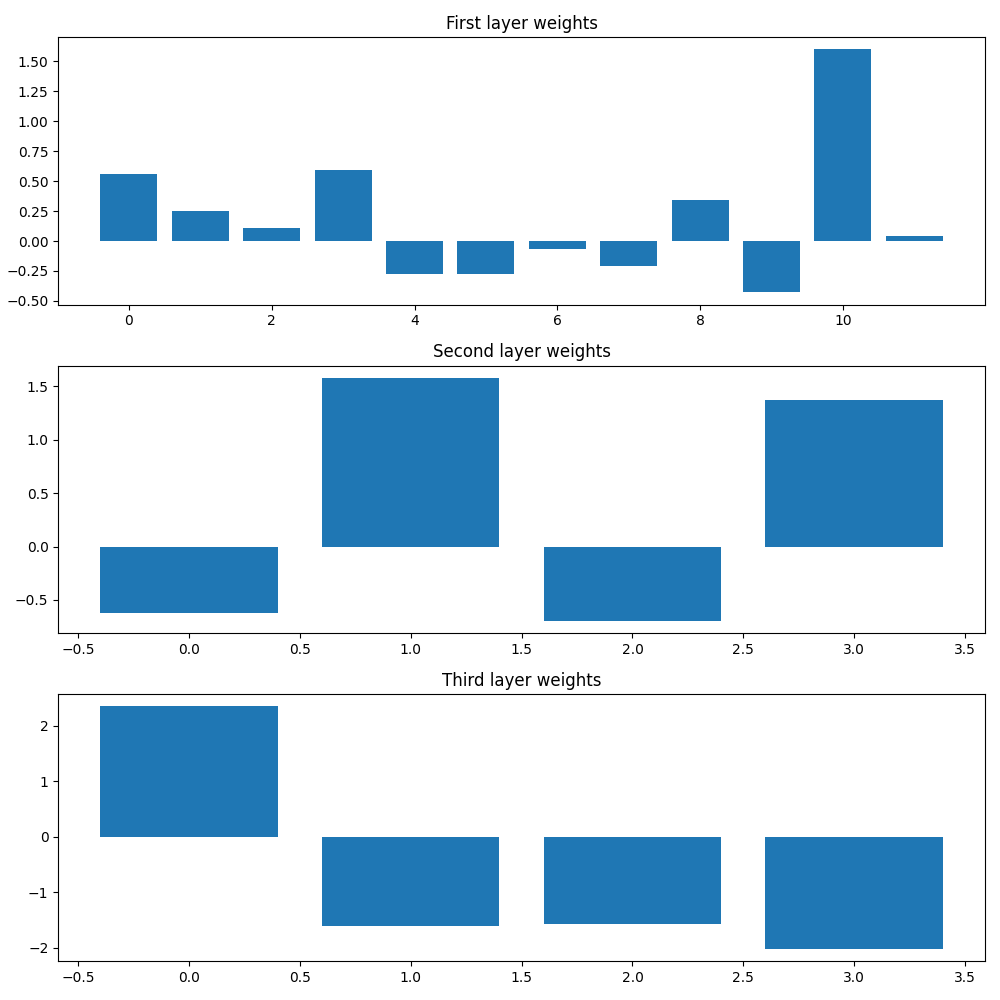
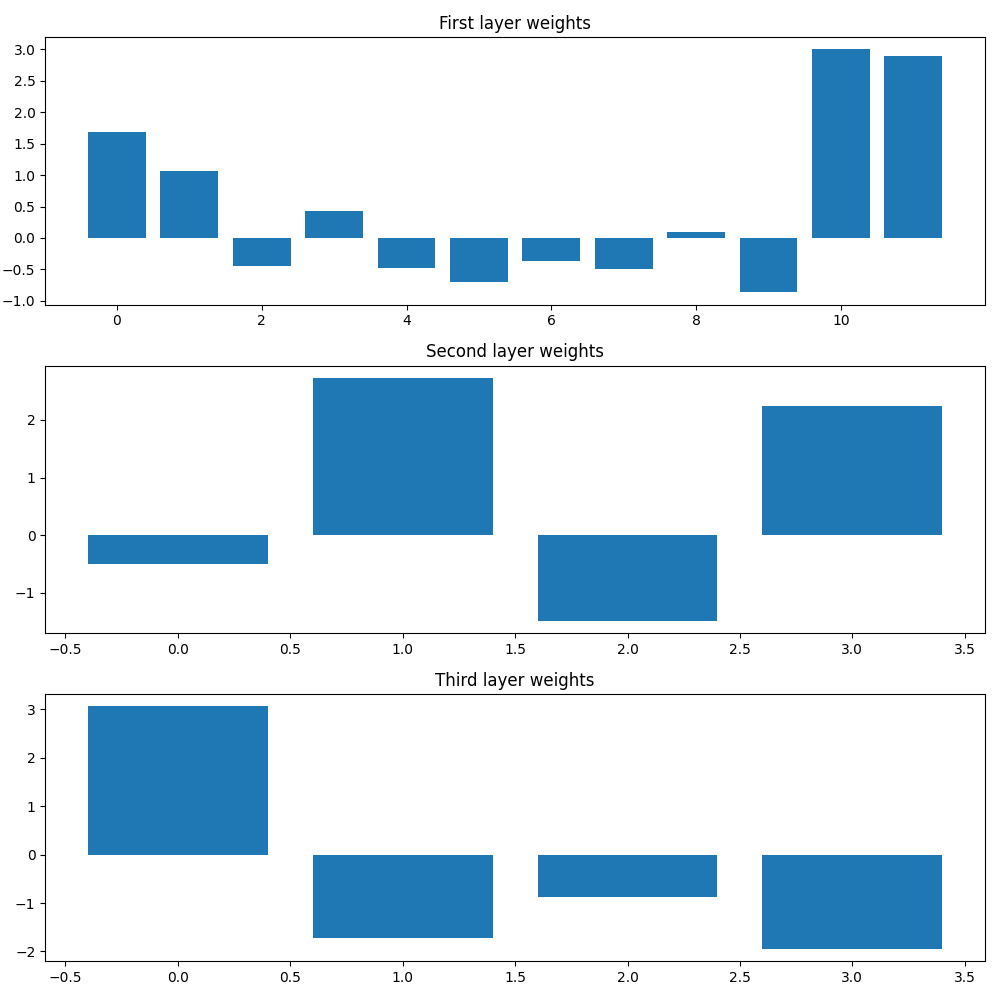
runs with noises to the 2nd test group

diff --git a/model_1.py b/model_1.py
@@ -113,7 +113,7 @@ criterion = nn.BCELoss() # Binary Cross Entropy loss for binary classification
 
 ################            ################         ################
 
-hyperparameters = {'lr': 0.01, 'weight_decay': 1e-5, 'momentum': 0.9}
+hyperparameters = {'lr': 1e-2, 'weight_decay': 1e-5, 'momentum': 0.5}
 lr_decay = 0.9   # 1 is for no decay
 
 ################            ################         ################
@@ -185,7 +185,7 @@ print(f'Accuracy on the original test set: {round(accuracy, 4)*100:3.4f}%')
 # loop through the test set
 for i in range(0, len(X_test)):
     for j in range(1):
-        noise = np.random.normal(0, 0.15, len(X_test.iloc[i])-2)
+        noise = np.random.normal(0, 1, len(X_test.iloc[i])-2)
 
         X_test.iloc[i][2:] = X_test.iloc[i][2:] + noise
         new_patient = X_test.iloc[i]

diff --git a/explain_1.py b/explain_1.py
@@ -35,14 +35,14 @@ neurons = [first_layer_weights, second_layer_weights, third_layer_weights]
 
 # find where the weights had more impact
 # average the weights of each neuron
-count = 1
+count = 0
 for i in neurons:
     i = np.array(i)
     i = np.abs(i)
     i = np.mean(i)
     count += 1
     print()
-    print(f'The layer {count} has mean weight {i}')
+    print(f'The layer {count} has mean weight {i:.3f}')
 
 print()
 print('The neural network increases its mean weight as it goes deeper, which means\
